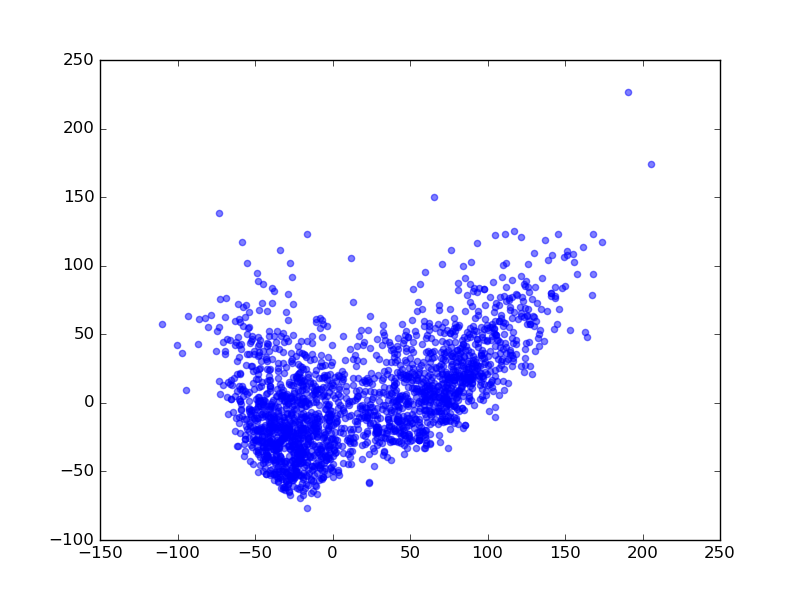
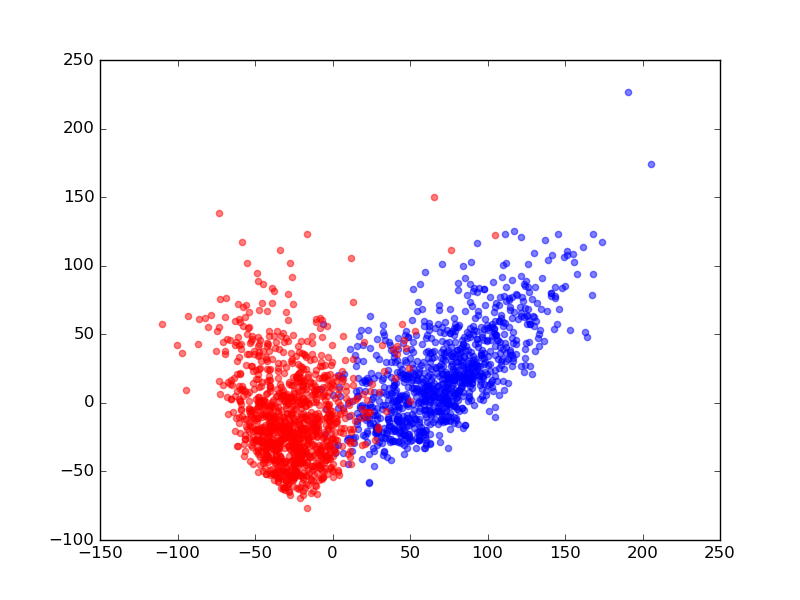
merge

diff --git a/practical_3/train_model.py b/practical_3/train_model.py
@@ -319,16 +319,16 @@ def feature_extraction():
         fig = plt.figure()
         print(np.max(prediction))
         print(np.min(prediction))
-        #plt.scatter(pca[:,0],pca[:,1], prediction, color=plt.cm.Set1())
+        plt.scatter(pca[:,0],pca[:,1], prediction)
         
         
              
-        class_points = pca[prediction == 1]
+        #class_points = pca[prediction == 1]
         
-        plt.scatter(class_points[:,0], class_points[:,1], color='b'  , alpha=0.5)
-        class_points = pca[prediction == 2]
+        #plt.scatter(class_points[:,0], class_points[:,1], color='b'  , alpha=0.5)
+        #class_points = pca[prediction == 2]
         
-        plt.scatter(class_points[:,0], class_points[:,1], color='b'  , alpha=0.5)
+        #plt.scatter(class_points[:,0], class_points[:,1], color='r'  , alpha=0.5)
         
 
 
